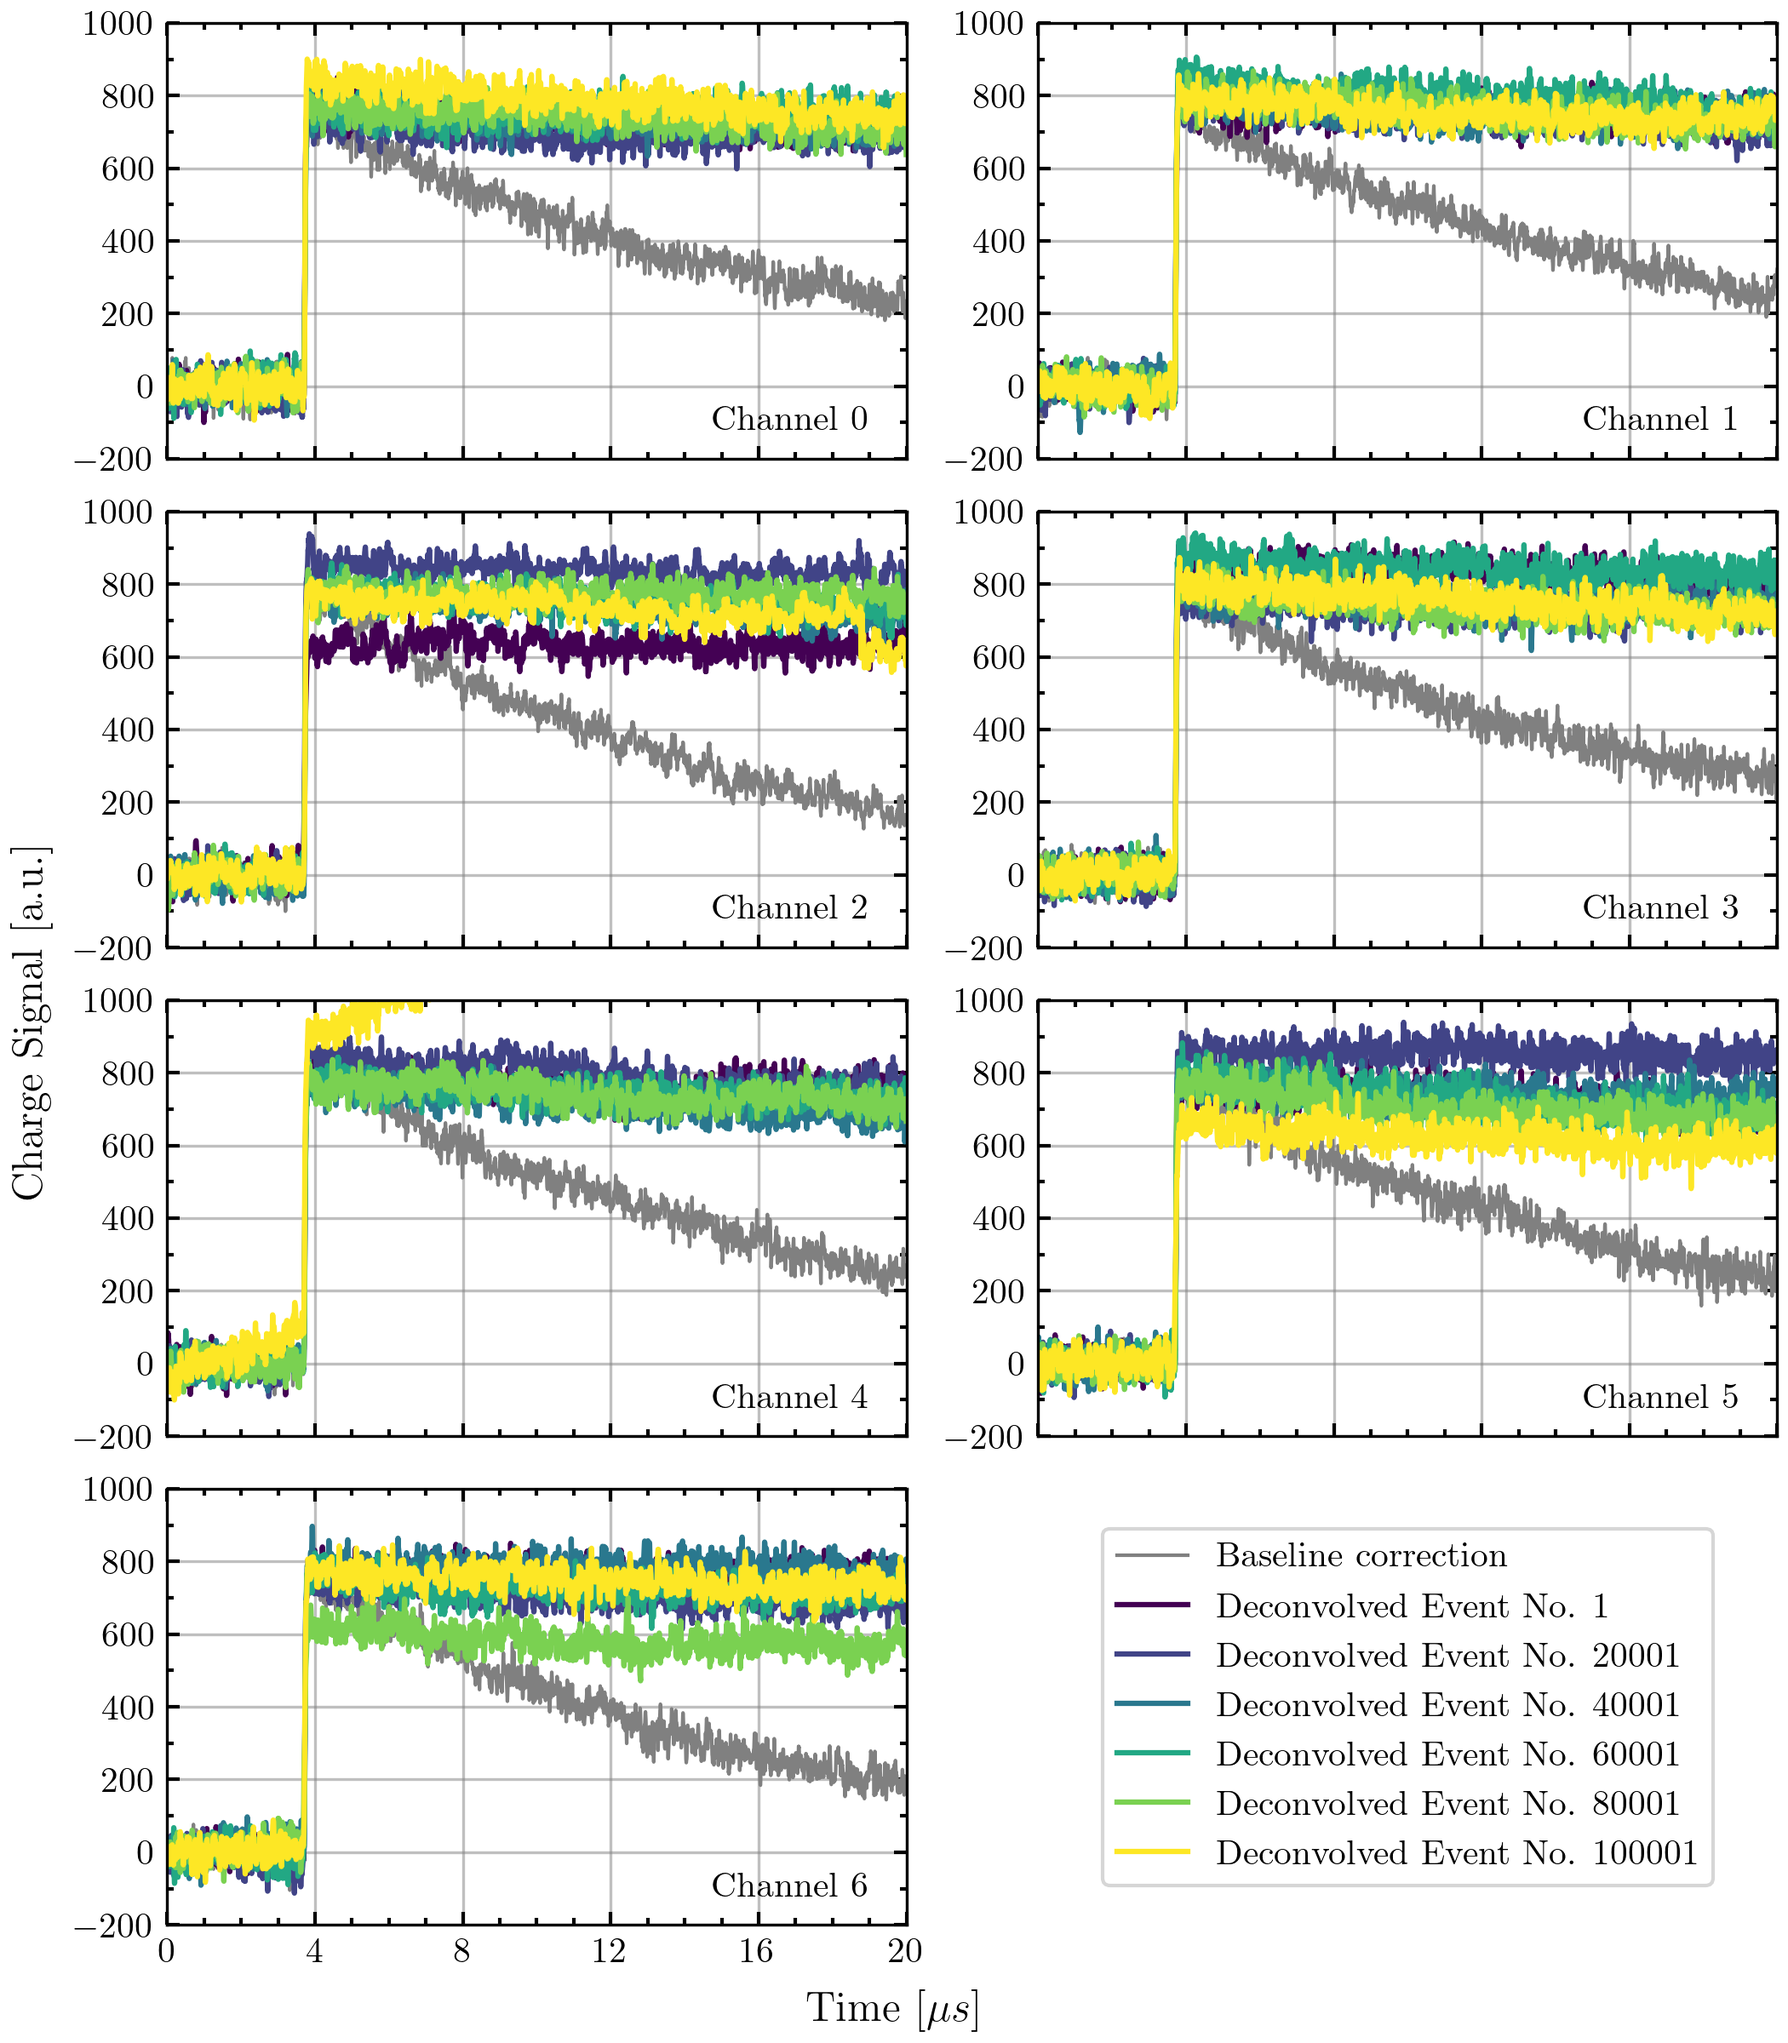
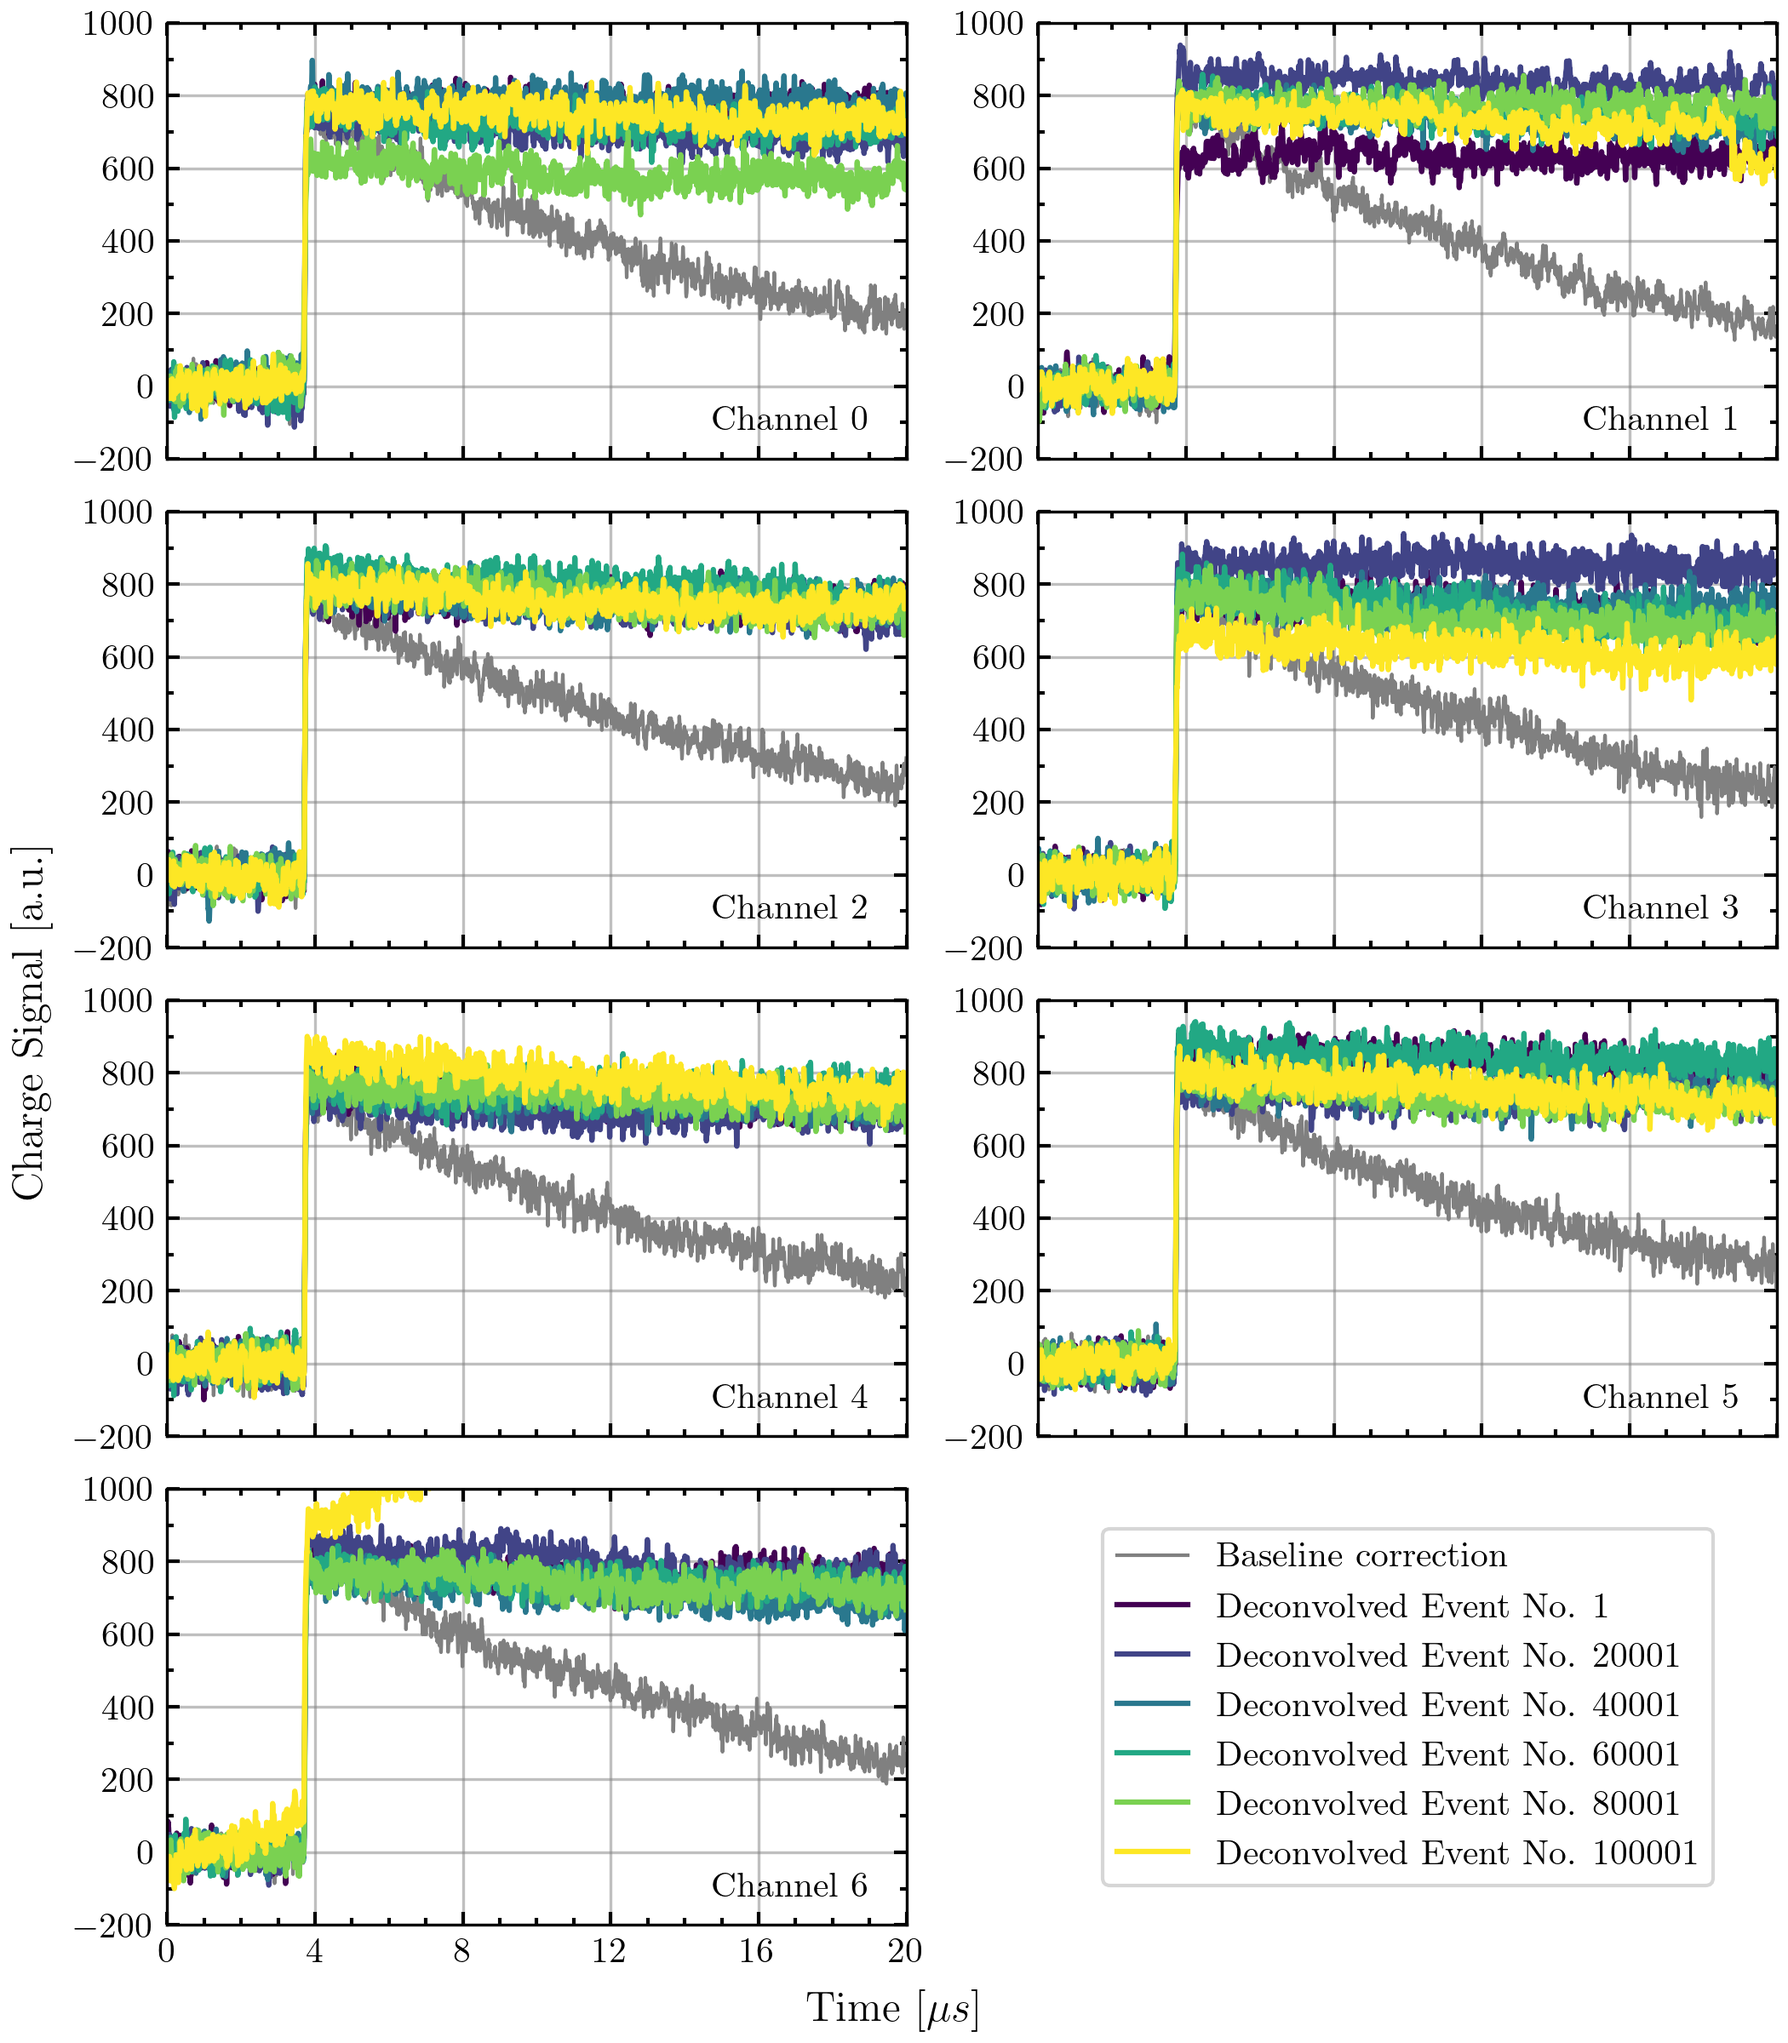
Fixed channel sorting

diff --git a/Scripts/data_analysis.py b/Scripts/data_analysis.py
@@ -52,7 +52,7 @@ for idx in tqdm(range(total_iterations), desc='Plotting waveforms', unit="%", un
     i = idx // num_cols
     j = idx % num_cols
     if idx < 7:
-        data = readFile(files[idx])
+        data = readFile(sorted_files[idx])
         waveforms = data['wave']
         for val, color_index in zip(np.arange(1, 12e4, 2e4), np.arange(num_colors)):
             val = int(val)
@@ -82,7 +82,7 @@ for idx in tqdm(range(total_iterations), desc='Plotting waveforms', unit="%", un
             ax[i, j].legend(loc = 'center')
             ax[i, j].axis('off')
 
-#  fig.savefig('Plots/Waveform_run1.png', dpi=300)
+fig.savefig('Plots/Waveform_run1.png', dpi=300)
 
 # =======================================================================================================
 # Baseline correction & Waveform deconvolution
@@ -104,7 +104,7 @@ for idx1 in tqdm(range(total_iterations), desc='Plotting baseline corrected wave
     i = idx1 // num_cols
     j = idx1 % num_cols
     if idx1 < 7:
-        data = readFile(files[idx1])
+        data = readFile(sorted_files[idx1])
         waveforms = data['wave']
         # -----------------------------------------------------------------------------------------------
         offset = np.mean(waveforms[:, :500], axis=1)
@@ -164,6 +164,6 @@ for idx1 in tqdm(range(total_iterations), desc='Plotting baseline corrected wave
             ax[i, j].legend(loc = 'center', fontsize=10)
             ax[i, j].axis('off')
 
-#  fig.savefig('Plots/Waveform_corrected.png', dpi=300)
+fig.savefig('Plots/Waveform_corrected.png', dpi=300)
 
 plt.show()
